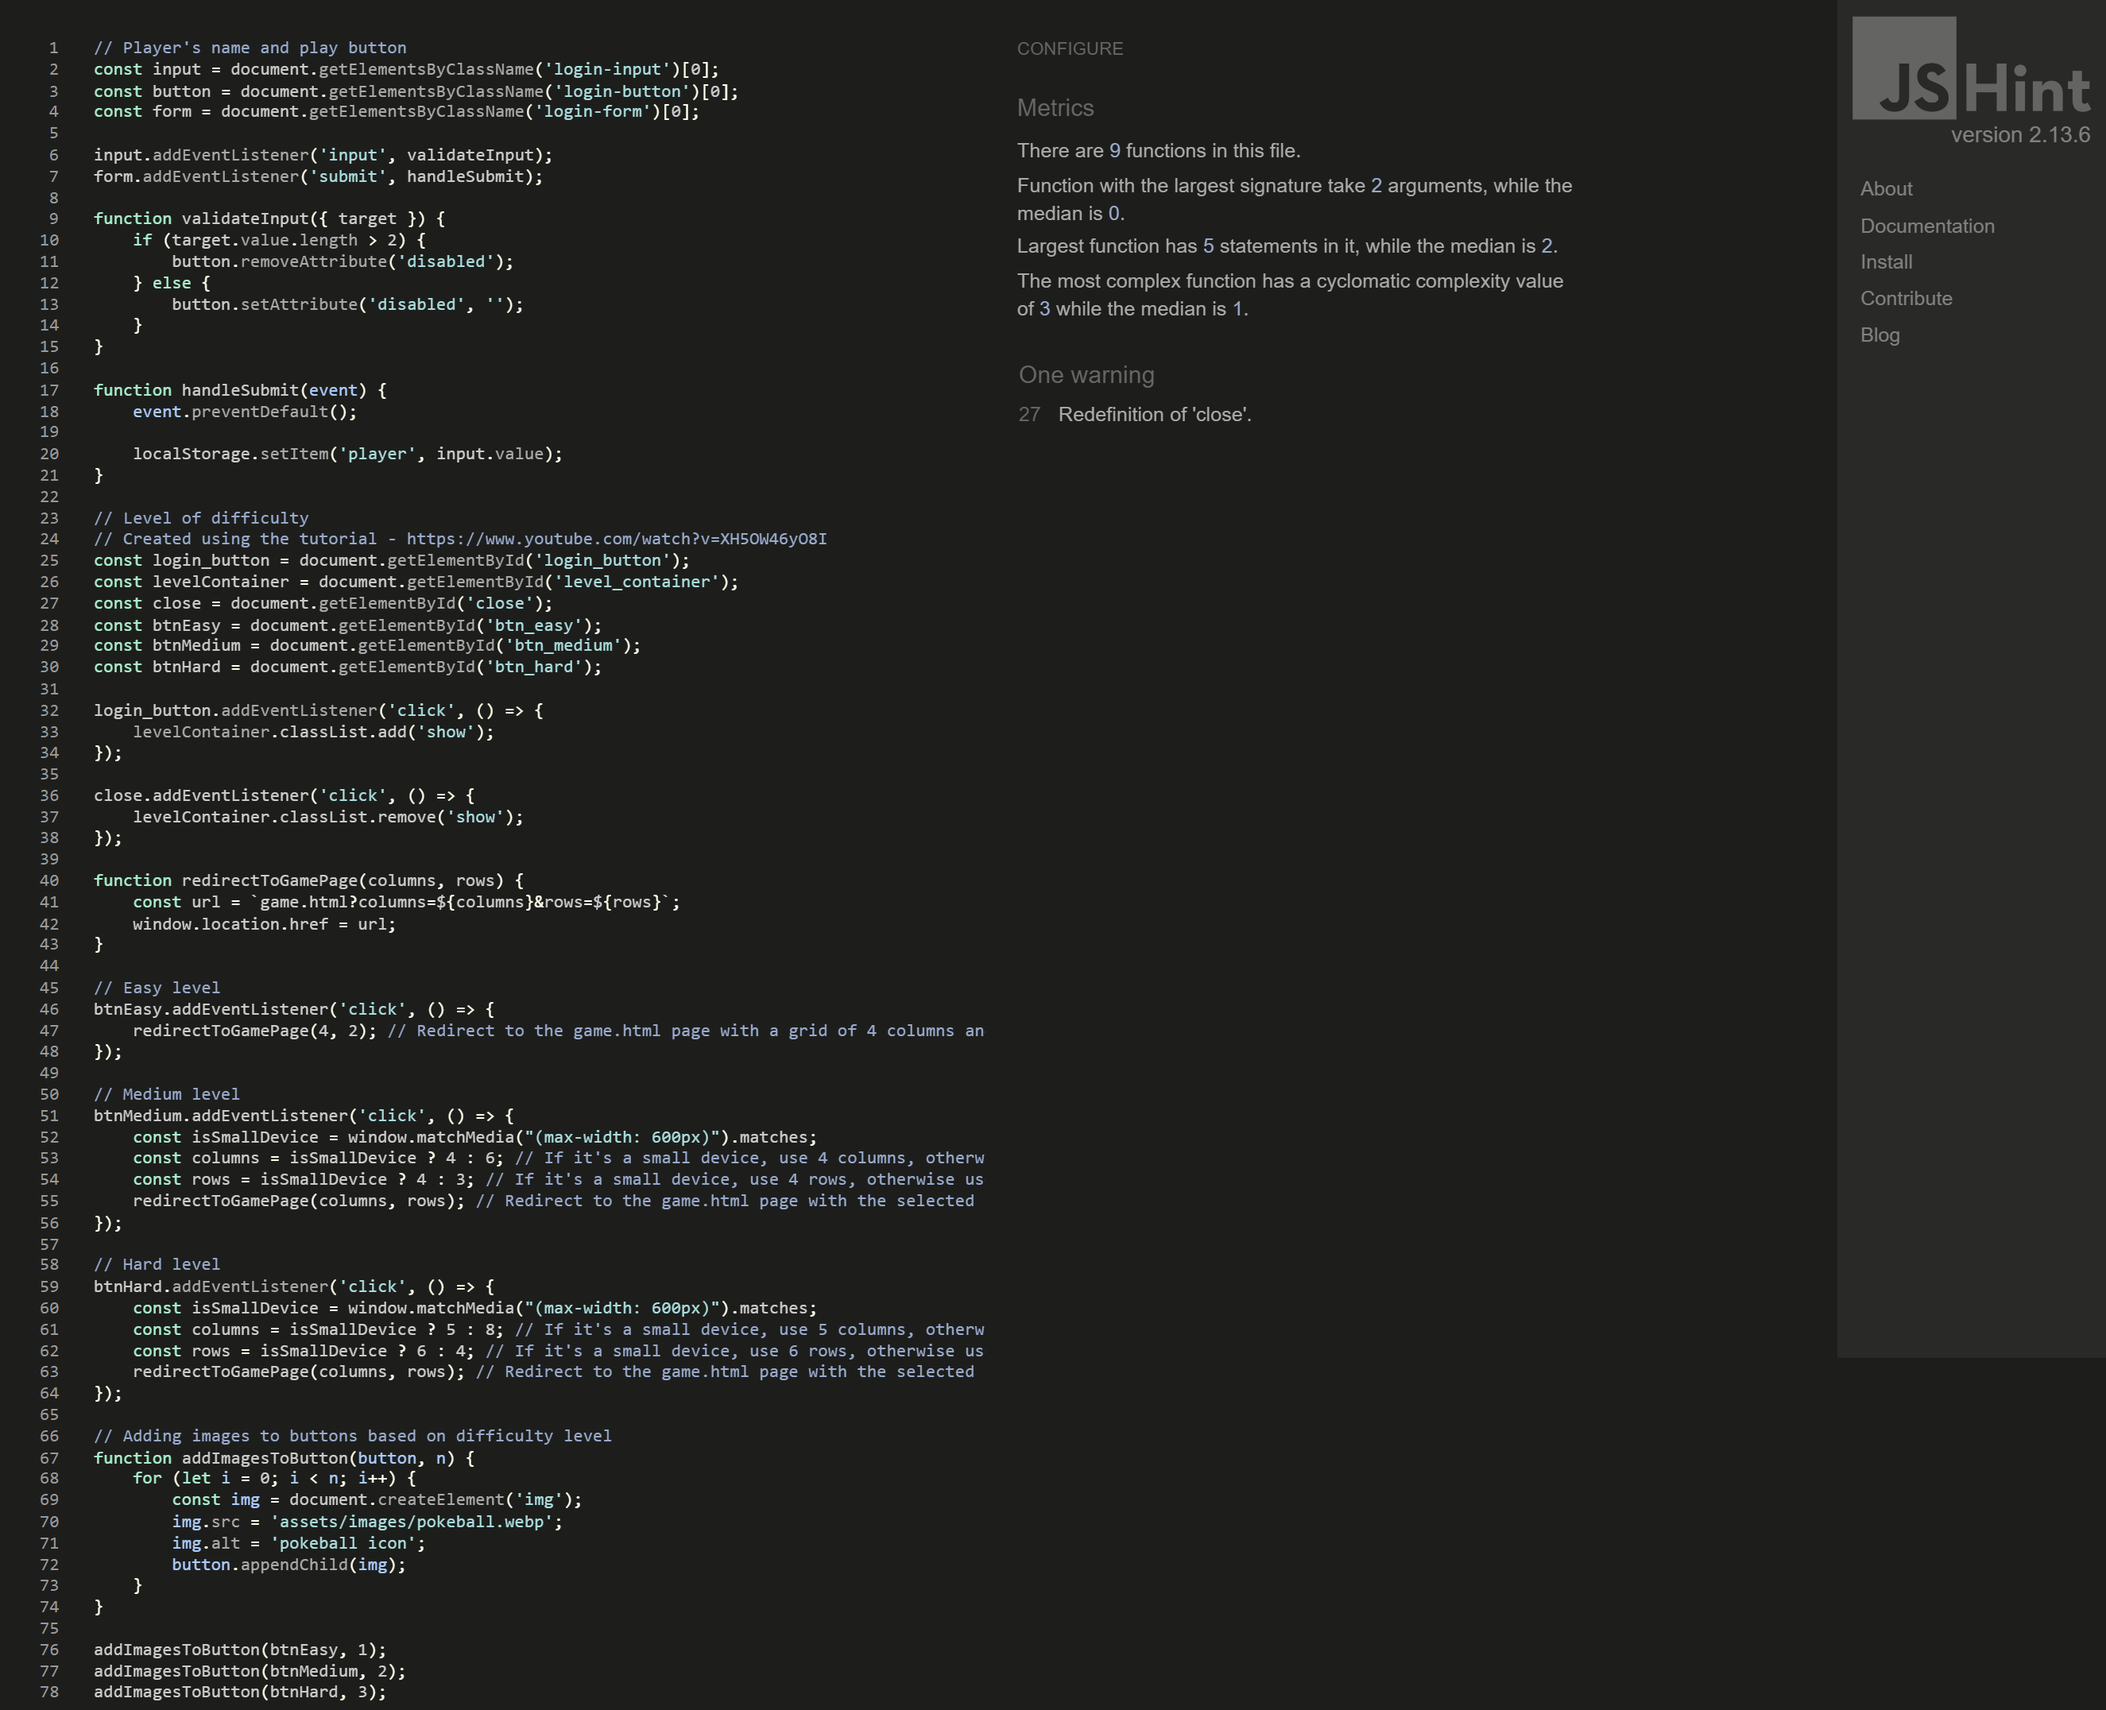
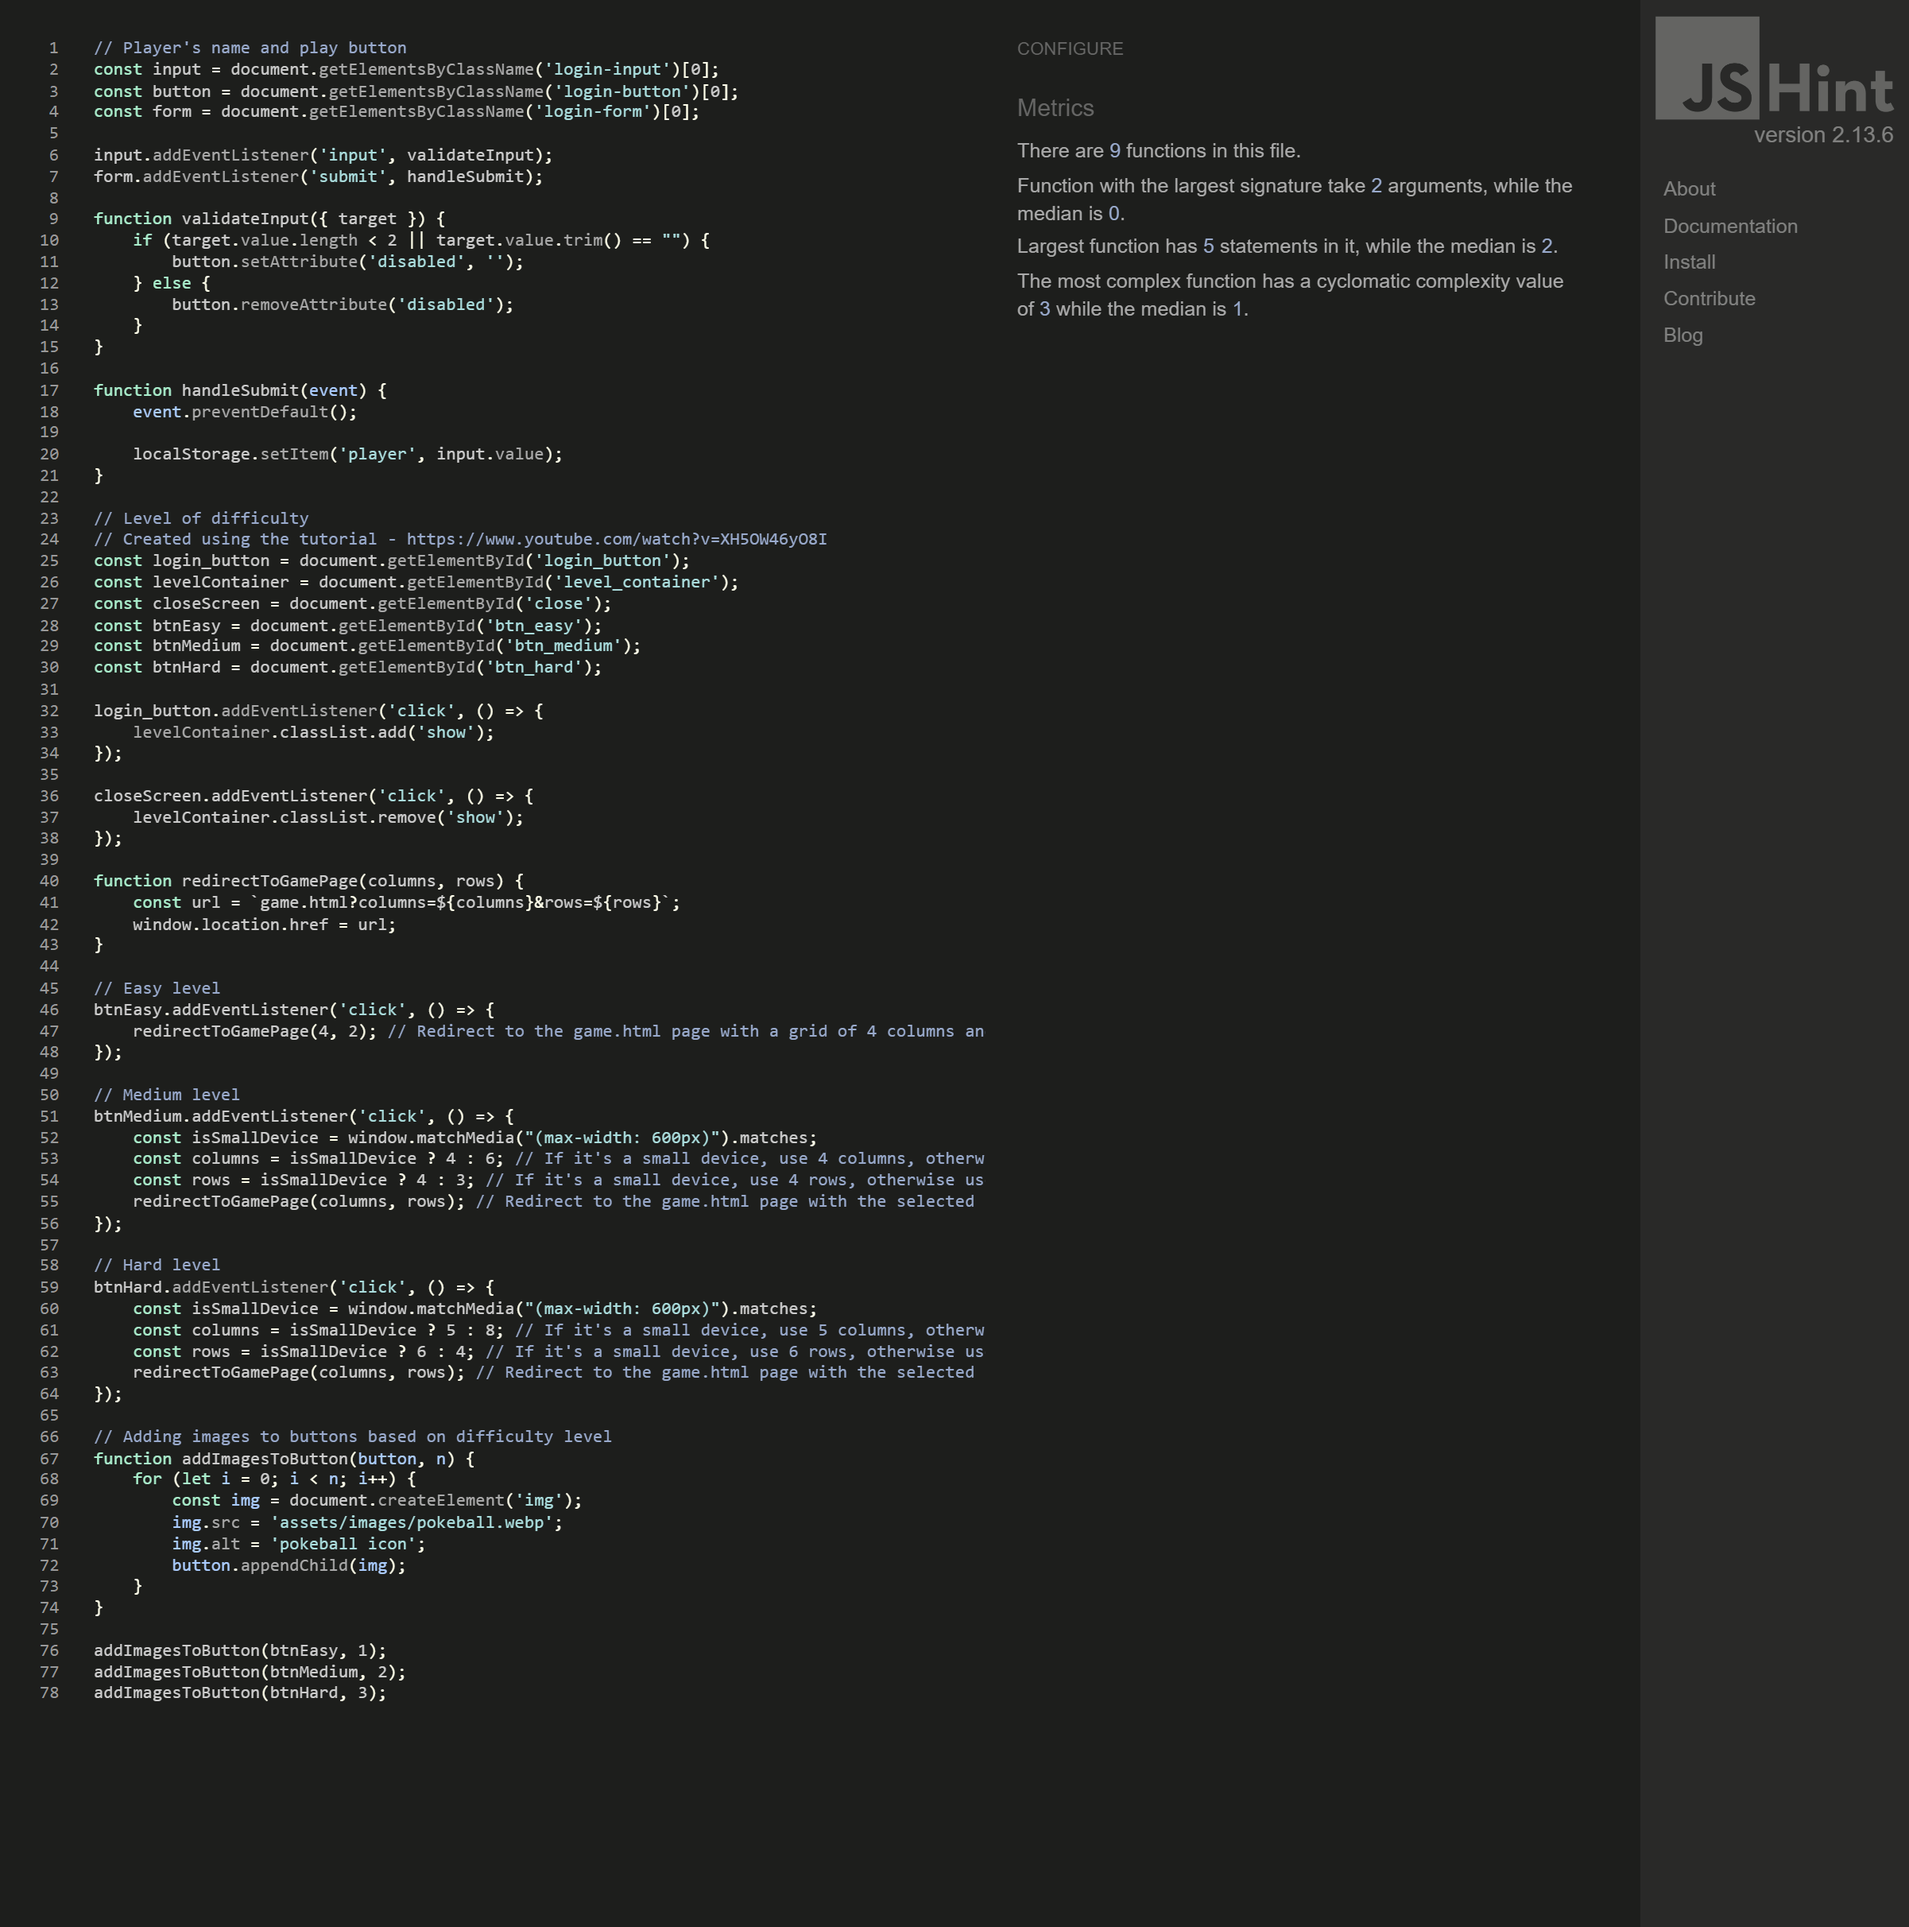
Update jshint script image

diff --git a/assets/js/script.js b/assets/js/script.js
@@ -9,7 +9,6 @@ form.addEventListener('submit', handleSubmit);
 function validateInput({ target }) {
     if (target.value.length < 2 || target.value.trim() == "") {
         button.setAttribute('disabled', '');
-
     } else {
         button.removeAttribute('disabled');
     }
@@ -25,7 +24,7 @@ function handleSubmit(event) {
 // Created using the tutorial - https://www.youtube.com/watch?v=XH5OW46yO8I
 const login_button = document.getElementById('login_button');
 const levelContainer = document.getElementById('level_container');
-const close = document.getElementById('close');
+const closeScreen = document.getElementById('close');
 const btnEasy = document.getElementById('btn_easy');
 const btnMedium = document.getElementById('btn_medium');
 const btnHard = document.getElementById('btn_hard');
@@ -34,7 +33,7 @@ login_button.addEventListener('click', () => {
     levelContainer.classList.add('show');
 });
 
-close.addEventListener('click', () => {
+closeScreen.addEventListener('click', () => {
     levelContainer.classList.remove('show');
 });
 

diff --git a/index.html b/index.html
@@ -37,7 +37,7 @@
         <div class="outer-container rounded">
             <!-- Form to insert player's name -->
             <form class="login-form">
-                <input type="text" placeholder="Name" class="login-input rounded">
+                <input type="text" placeholder="Name" id="name" name="name" class="login-input rounded">
 
                 <!-- Play button -->
                 <button type="submit" id="login_button" class="login-button uppercase rounded shadow" disabled>Catch 'em
